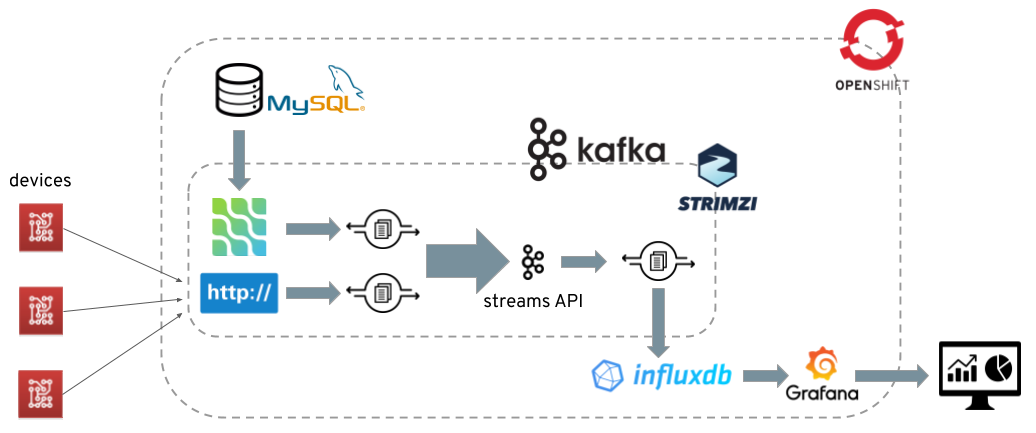
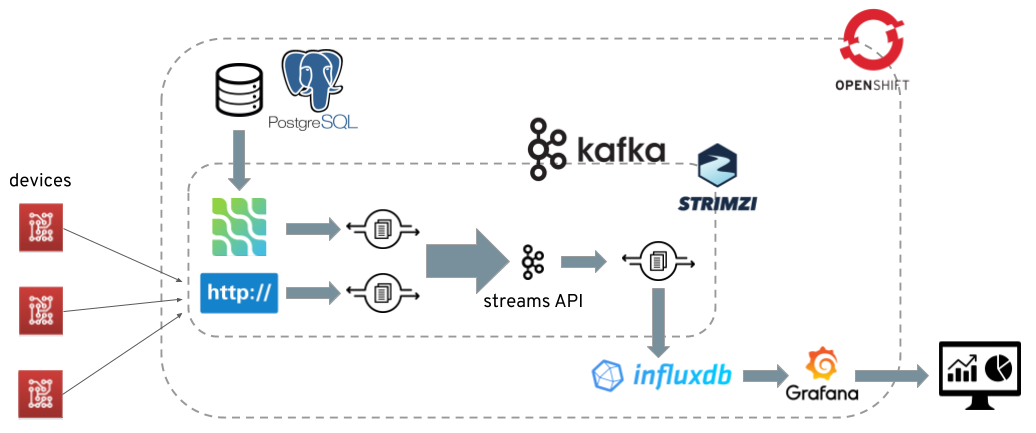
Replaced MySQL with PostgreSQL

Changed region(s): [[0.2471, 0.0901, 0.3707, 0.3002]]

diff --git a/modules/02-cdc-connect-debezium.md b/modules/02-cdc-connect-debezium.md
@@ -1,17 +1,18 @@
 # Module 02 - CDC with Apache Kafka Connect and Debezium
 
-## Deploy and check MySQL database
+## Deploy and check PostgreSQL database
 
-Deploy the MySQL database used as storage for devices information with some pre-crated data.
+Deploy the PostgreSQL database used as storage for devices information with some pre-crated data.
 
 ```shell
-oc apply -f kafka-connect-debezium/mysql/mysql.yaml
+oc adm policy add-scc-to-user anyuid -z postgres
+oc apply -f kafka-connect-debezium/postgres/postgres.yaml
 ```
 
 Check that the table `deviceinfo` is prepopulated with some devices related information.
 
 ```shell
-oc exec $(oc get pods --selector=app=mysql -o=jsonpath='{.items[0].metadata.name}') -- mysql -u mysqluser -pmysqlpw -e "SELECT * from deviceinfo" devices
+oc exec $(oc get pods --selector=app=postgres -o=jsonpath='{.items[0].metadata.name}') -- env PGOPTIONS="--search_path=devices" psql -U postgres -c "SELECT * FROM deviceinfo;"
 ```
 
 ## Deploy Apache Kafka Connect
@@ -19,7 +20,7 @@ oc exec $(oc get pods --selector=app=mysql -o=jsonpath='{.items[0].metadata.name
 The Apache Kafka Connect cluster can be deployed using the cluster operator.
 There are two available CRDs (Custom Resource Definitions) for that: `KafkaConnect` and `KafkaConnectS2I`.
 The `KafkaConnectS2I` CRD leverages the Source-2-Image OpenShift's feature for handling builds and adding connectors plugin.
-It is used for adding the Debezium MySQL plugin connector.
+It is used for adding the Debezium PostgreSQL plugin connector.
 
 First, deploy the Apache Kafka Connect cluster.
 
@@ -27,15 +28,15 @@ First, deploy the Apache Kafka Connect cluster.
 oc apply -f kafka-connect-debezium/kafka-connect-s2i.yaml
 ```
 
-## Build a new Apache Kafka Connect image with MySQL Debezium connector plugin
+## Build a new Apache Kafka Connect image with Debezium PostgreSQL connector plugin
 
-Download the latest available Debezium MySQL connector plugin and start a new S2I build providing such a plugin.
+Download the latest available Debezium PostgreSQL connector plugin and start a new S2I build providing such a plugin.
 A new Kafka Connect image is built adding the plugin and it's restarted.
 
 ```shell
 export DEBEZIUM_VERSION=0.9.5.Final
 mkdir -p plugins && cd plugins && \
-curl http://central.maven.org/maven2/io/debezium/debezium-connector-mysql/$DEBEZIUM_VERSION/debezium-connector-mysql-$DEBEZIUM_VERSION-plugin.tar.gz | tar xz && \
+curl http://central.maven.org/maven2/io/debezium/debezium-connector-postgres/$DEBEZIUM_VERSION/debezium-connector-postgres-$DEBEZIUM_VERSION-plugin.tar.gz | tar xz && \
 oc start-build my-connect-cluster-connect --from-dir=. --follow && \
 cd .. && rm -rf plugins
 ```
@@ -47,9 +48,9 @@ Interact againt the Apache Kafka Connect REST API (from one of the pods running 
 oc exec my-cluster-kafka-0 -c kafka -- curl -s http://my-connect-cluster-connect-api:8083/connector-plugins
 ```
 
-## Run the Debezium MySQL connector
+## Run the Debezium PostgreSQL connector
 
-Register the Debezium MySQL connector with the related configuration to run against the deployed MySQL instance:
+Register the Debezium PostgreSQL connector with the related configuration to run against the deployed PostgreSQL instance:
 
 ```shell
 oc exec -i -c kafka my-cluster-kafka-0 -- curl -X POST \
@@ -58,20 +59,17 @@ oc exec -i -c kafka my-cluster-kafka-0 -- curl -X POST \
     http://my-connect-cluster-connect-api:8083/connectors -d @- <<'EOF'
 
 {
-    "name": "devices-connector",
-    "config": {
-        "connector.class": "io.debezium.connector.mysql.MySqlConnector",
-        "tasks.max": "1",
-        "database.hostname": "mysql",
-        "database.port": "3306",
-        "database.user": "debezium",
-        "database.password": "dbz",
-        "database.server.id": "184054",
-        "database.server.name": "dbserver1",
-        "database.whitelist": "devices",
-        "database.history.kafka.bootstrap.servers": "my-cluster-kafka-bootstrap:9092",
-        "database.history.kafka.topic": "schema-changes.devices"
-    }
+  "name": "devices-connector",
+  "config": {
+    "connector.class": "io.debezium.connector.postgresql.PostgresConnector",
+    "database.hostname": "postgres",
+    "database.port": "5432",
+    "database.user": "postgres",
+    "database.password": "postgres",
+    "database.dbname" : "postgres",
+    "database.server.name": "dbserver1",
+    "table.whitelist": "devices.deviceinfo"
+  }
 }
 EOF
 ```
@@ -82,30 +80,35 @@ Check that the connector is now loaded.
 oc exec my-cluster-kafka-0 -c kafka -- curl -X GET -H "Accept:application/json" http://my-connect-cluster-connect-api:8083/connectors
 ```
 
-Check that the connector is running and it already read the propulated data in the `deviceinfo` table of the `devices` database from the MySQL instance, sending related events to the `dbserver1.devices.deviceinfo` topic.
+Check that the connector is running and it already read the propulated data in the `deviceinfo` table of the `devices` database from the PostgreSQL instance, sending related events to the `dbserver1.devices.deviceinfo` topic.
 Run an Apache Kafka console consumer on one of the pods for receiving messages from the topic from the beginning offset.
 
 ```shell
+export CONSOLE_CONSUMER_PASSWORD=$(oc get secret kafka-console-consumer -o jsonpath='{.data.password}' | base64 -d)
 oc exec my-cluster-kafka-0 -- /opt/kafka/bin/kafka-console-consumer.sh \
-    --bootstrap-server localhost:9092 \
+    --bootstrap-server my-cluster-kafka-bootstrap:9092 \
     --from-beginning \
     --property print.key=true \
-    --topic dbserver1.devices.deviceinfo
+    --topic dbserver1.devices.deviceinfo \
+    --consumer-property sasl.mechanism=SCRAM-SHA-512 \
+    --consumer-property security.protocol=SASL_PLAINTEXT \
+    --consumer-property sasl.jaas.config="org.apache.kafka.common.security.scram.ScramLoginModule required username=\"kafka-console-consumer\" password=\"${CONSOLE_CONSUMER_PASSWORD}\";" \
+    --group kafka-console-consumer
 ```
 
 ## Making new CDC events
 
-In another terminal, make a change to the `deviceinfo` table in the `devices` database of the MySQL instance, adding a new device.
+In another terminal, make a change to the `deviceinfo` table in the `devices` database of the PostgreSQL instance, adding a new device.
 
 ```shell
-oc exec $(oc get pods --selector=app=mysql -o=jsonpath='{.items[0].metadata.name}') -- mysql -u mysqluser -pmysqlpw -e "INSERT INTO deviceinfo VALUES(\"3\",\"manufacturer-C\")" devices
+oc exec $(oc get pods --selector=app=postgres -o=jsonpath='{.items[0].metadata.name}') -- env PGOPTIONS="--search_path=devices" psql -U postgres -c "INSERT INTO deviceinfo VALUES('3', 'manufacturer-C')"
 ```
 
-A new event is genareted by the Debezium MySQL connector and the consumer gets the message.
+A new event is genareted by the Debezium PostgreSQL connector and the consumer gets the message.
 
 Delete the just created record from the table.
 The connector generates a new message with `null` as payload which represents the tombstone for deleted record so deleting message with same key in a compacted topic.
 
 ```shell
-oc exec $(oc get pods --selector=app=mysql -o=jsonpath='{.items[0].metadata.name}') -- mysql -u mysqluser -pmysqlpw -e "DELETE FROM deviceinfo WHERE id=\"3\"" devices
+oc exec $(oc get pods --selector=app=postgres -o=jsonpath='{.items[0].metadata.name}') -- env PGOPTIONS="--search_path=devices" psql -U postgres -c "DELETE FROM deviceinfo WHERE id='3';"
 ```
